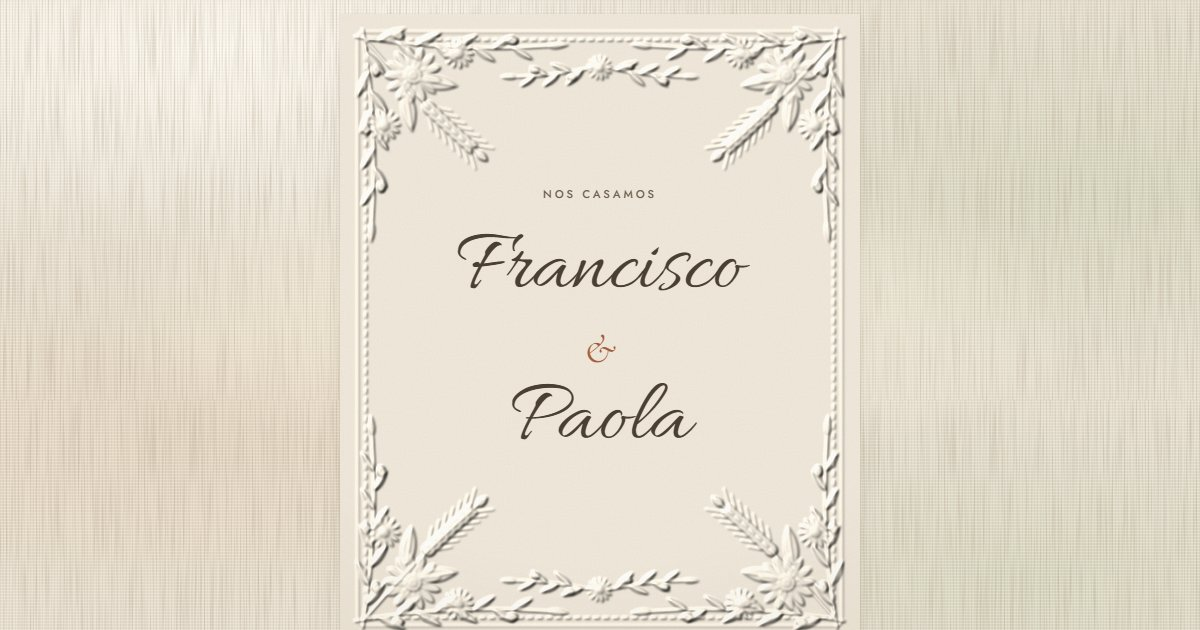
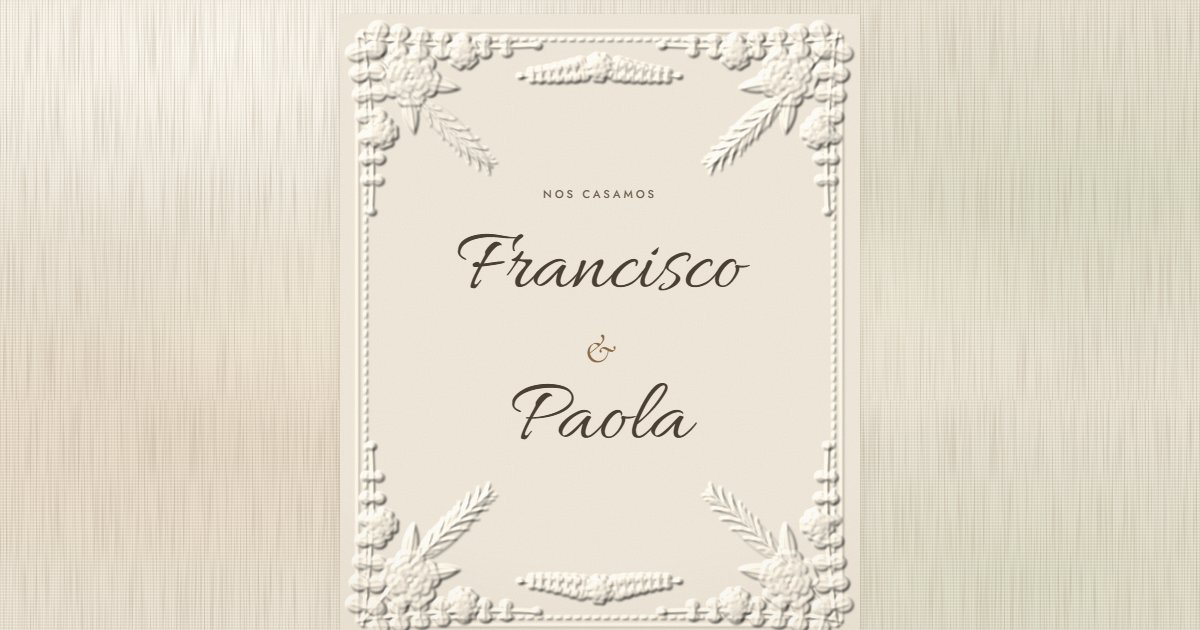
Fondos con fotos libres de Unsplash (faroles, ceremonia, pampas, velas); rosas, eucalipto y pampas en relieve; lacre madera

Changed region(s): [[0.2775, 0.6635, 0.7092, 1.0], [0.2775, 0.0302, 0.7092, 0.3619]]

diff --git a/index.html b/index.html
@@ -31,7 +31,7 @@
   --linen: #E8E0D1;
   --ink: #4A3F33;
   --ink-soft: #6E6253;
-  --accent: #A35F3C;
+  --accent: #8B6A45;
   --sage: #8A9A6E;
   --sage-deep: #66734D;
   --line: rgba(74, 63, 51, .2);
@@ -359,6 +359,26 @@ html.intro-on .hero-in > * { opacity: 0; }
 .proto a { color: var(--ink); text-underline-offset: 3px; white-space: nowrap; }
 
 .linen-panel .panel-in { padding: 46px 22px; }
+
+/* secciones con foto de fondo (fotos libres de Unsplash, licencia Unsplash):
+   faroles = photo-1660243353143-f77ba06d4913 · ceremonia = photo-1770757588246-f1988bdd9b49
+   pampas = photo-1780337092896-87be336f877d · velas = photo-1613068431228-8cb6a1e92573 */
+.photo { background-color: var(--linen); background-size: cover; background-position: center; }
+.photo::before { content: ""; position: absolute; inset: 0; z-index: 0; pointer-events: none; }
+.photo-light::before { background: linear-gradient(180deg, rgba(240, 233, 220, .7), rgba(240, 233, 220, .84)); }
+.photo-dark { color: var(--on-olive); }
+.photo-dark::before { background: linear-gradient(180deg, rgba(36, 31, 22, .38), rgba(36, 31, 22, .62)); }
+.photo .panel-in { padding: 64px 22px; }
+.photo-dark .panel-in { text-shadow: 0 1px 10px rgba(20, 16, 10, .45); }
+.photo-dark .label { color: #E9E1D0; }
+.photo-dark .h2, .photo-dark .venue-name { color: #FBF7EE; }
+.photo-dark .venue-addr { color: #E9E1D0; }
+.photo-dark .venue .time { color: #EBD7B4; }
+.photo-dark .btn { border-color: rgba(251, 247, 238, .85); background: rgba(251, 247, 238, .1); color: #FBF7EE; text-shadow: none; }
+.photo-dark .btn:hover { background: #FBF7EE; color: var(--ink); }
+.bg-faroles { background-image: url("img/fondo-faroles.jpg"); }
+.bg-ceremonia { background-image: url("img/fondo-ceremonia.jpg"); background-position: 50% 60%; }
+.bg-pampas { background-image: url("img/fondo-pampas.jpg"); }
 .card .panel-in { padding: 78px 34px 80px; }
 
 /* cuenta regresiva y foto */
@@ -428,7 +448,7 @@ html.intro-on .hero-in > * { opacity: 0; }
 .btn-row .btn { flex: 1 1 120px; max-width: 200px; }
 
 /* lugar */
-.venues-in { padding: 128px 40px 80px; gap: 12px; }
+.photo .venues-in { min-height: 560px; justify-content: center; padding: 96px 32px; gap: 12px; }
 .venue { display: flex; flex-direction: column; align-items: center; gap: 6px; width: 100%; }
 .venue .time { font-family: var(--font-label); font-size: .8rem; letter-spacing: .22em; color: var(--accent); font-variant-numeric: lining-nums; }
 .venue-name { font-size: 1.6rem; line-height: 1.2; }
@@ -460,7 +480,14 @@ html.intro-on .hero-in > * { opacity: 0; }
 .gifts-in { padding: 104px 40px 100px; }
 
 /* confirmación (verde oliva) */
-.olive { background-color: var(--olive); color: var(--on-olive); box-shadow: 0 16px 34px -22px rgba(30, 36, 20, .6); }
+.olive {
+  background-color: var(--olive);
+  background-image: linear-gradient(180deg, rgba(78, 90, 59, .9), rgba(78, 90, 59, .94)), url("img/fondo-velas.jpg");
+  background-size: cover;
+  background-position: center;
+  color: var(--on-olive);
+  box-shadow: 0 16px 34px -22px rgba(30, 36, 20, .6);
+}
 .olive::after { content: ""; position: absolute; inset: 0; z-index: 1; pointer-events: none; background-image: var(--weave), var(--grain); opacity: .5; mix-blend-mode: soft-light; }
 .olive .label { color: var(--on-olive-soft); }
 .olive .h2 { color: var(--on-olive); }
@@ -608,7 +635,7 @@ html.js .reveal.in { opacity: 1; transform: none; }
     </filter>
     <filter id="fx-seal" color-interpolation-filters="sRGB" x="-5%" y="-5%" width="110%" height="110%">
       <feGaussianBlur in="SourceAlpha" stdDeviation="1.3" result="h"/>
-      <feDiffuseLighting in="h" data-ss="3" surfaceScale="3" diffuseConstant="1.27" lighting-color="#9A4E33" result="d"><feDistantLight azimuth="225" elevation="52"/></feDiffuseLighting>
+      <feDiffuseLighting in="h" data-ss="3" surfaceScale="3" diffuseConstant="1.27" lighting-color="#93673E" result="d"><feDistantLight azimuth="225" elevation="52"/></feDiffuseLighting>
       <feSpecularLighting in="h" data-ss="3" surfaceScale="3" specularConstant=".38" specularExponent="26" lighting-color="#FFF4E6" result="s"><feDistantLight azimuth="225" elevation="52"/></feSpecularLighting>
       <feComposite in="d" in2="s" operator="arithmetic" k1="0" k2="1" k3="1" k4="0" result="ds"/>
       <feComponentTransfer in="SourceAlpha" result="m"><feFuncA type="linear" slope="40" intercept="0"/></feComponentTransfer>
@@ -662,9 +689,9 @@ html.js .reveal.in { opacity: 1; transform: none; }
         <svg class="bow" viewBox="0 0 300 230" focusable="false">
           <g class="sprig">
             <path fill="none" stroke="#7C8A63" stroke-width="1.5" stroke-linecap="round" d="M150,92 C146,70 140,50 134,26 M152,92 C156,70 162,50 168,28 M151,92 C151,70 151,52 151,34"/>
-            <path fill="none" stroke="#9A8CBB" stroke-width="5" stroke-linecap="round" stroke-dasharray="3 1.8" d="M138,46 C136,38 135,32 133,22"/>
-            <path fill="none" stroke="#8B7CAE" stroke-width="5" stroke-linecap="round" stroke-dasharray="3 1.8" d="M164,48 C166,40 167,34 169,24"/>
-            <path fill="none" stroke="#A497C4" stroke-width="5" stroke-linecap="round" stroke-dasharray="3 1.8" d="M151,52 C151,44 151,38 151,30"/>
+            <path fill="none" stroke="#D9C8A6" stroke-width="9" stroke-linecap="round" stroke-dasharray="1.4 1.1" d="M139,52 C137,40 135,30 132,16"/>
+            <path fill="none" stroke="#CDB892" stroke-width="9" stroke-linecap="round" stroke-dasharray="1.4 1.1" d="M163,54 C165,42 167,32 170,18"/>
+            <path fill="none" stroke="#E6DABF" stroke-width="8" stroke-linecap="round" stroke-dasharray="1.4 1.1" d="M151,58 C151,46 151,36 151,24"/>
             <path fill="#8A9A6E" d="M150,90 C138,74 120,64 102,62 C114,74 132,84 150,90 Z"/>
             <path fill="#A3AE88" d="M150,90 C164,72 182,62 200,60 C188,74 168,84 150,90 Z"/>
             <path fill="#98A57E" d="M150,93 C130,90 112,96 96,108 C114,106 132,100 150,93 Z"/>
@@ -687,7 +714,7 @@ html.js .reveal.in { opacity: 1; transform: none; }
 
     <p class="proto"><span class="proto-tag">Vista previa</span> La fecha está por confirmar. Hora, teléfono y link de la lista de novios son de ejemplo. <a href="#familia-perez" id="proto-link">Ver como “Familia Pérez”</a></p>
 
-    <section class="panel linen-panel" aria-label="Cuenta regresiva">
+    <section class="panel photo photo-light bg-faroles" aria-label="Cuenta regresiva">
       <div class="panel-in reveal">
         <div class="oval" id="oval">
           <div class="oval-in" id="oval-in">
@@ -713,7 +740,7 @@ html.js .reveal.in { opacity: 1; transform: none; }
       </div>
     </section>
 
-    <section class="panel paper" data-relief="lugares" aria-labelledby="h-lugar">
+    <section class="panel photo photo-dark bg-ceremonia" aria-labelledby="h-lugar">
       <div class="panel-in venues-in reveal">
         <article class="venue">
           <p class="label">Ceremonia y celebración</p>
@@ -743,7 +770,7 @@ html.js .reveal.in { opacity: 1; transform: none; }
       </div>
     </section>
 
-    <section class="panel linen-panel" aria-labelledby="h-vestimenta">
+    <section class="panel photo photo-light bg-pampas" aria-labelledby="h-vestimenta">
       <div class="panel-in reveal">
         <p class="label">Código de vestimenta</p>
         <h2 class="h2" id="h-vestimenta">Formal relajado</h2>
@@ -880,6 +907,12 @@ html.js .reveal.in { opacity: 1; transform: none; }
     const defs = [];
     return {
       defs,
+      grad(cx, cy, r, stops) {
+        const id = prefix + 'g' + (++gid);
+        defs.push(`<radialGradient id="${id}" gradientUnits="userSpaceOnUse" cx="${f(cx)}" cy="${f(cy)}" r="${f(r)}">` +
+          stops.map(([o, a]) => `<stop offset="${o.toFixed(3)}" stop-color="#fff" stop-opacity="${a.toFixed(2)}"/>`).join('') + '</radialGradient>');
+        return id;
+      },
       clip(d) {
         const id = prefix + 'c' + (++gid);
         defs.push(`<clipPath id="${id}"><path d="${d}"/></clipPath>`);
@@ -921,16 +954,53 @@ html.js .reveal.in { opacity: 1; transform: none; }
     const c = Math.cos(ang), s = Math.sin(ang);
     return quad([x, y], [x + len * .5 * c - len * bend * s, y + len * .5 * s + len * bend * c], [x + len * c, y + len * s]);
   }
-  // Margarita: pétalos delgados alrededor de un centro abombado
-  function daisy(cx, cy, r, rot = 0, n = 13) {
+  // Rosa blanca: capas de pétalos que suben hacia el centro
+  function petal(cx, cy, r0, r1, a, hw, g) {
+    const p = (r, da) => pt(...pol(cx, cy, r, a + da));
+    const rm = r0 + (r1 - r0) * .55;
+    return `<path fill="url(#${g})" d="M${p(r0, -hw * .5)}C${p(rm, -hw * 1.08)} ${p(r1 * .98, -hw * .8)} ${p(r1, -hw * .36)}Q${p(r1 * .92, 0)} ${p(r1, hw * .36)}C${p(r1 * .98, hw * .8)} ${p(rm, hw * 1.08)} ${p(r0, hw * .5)}Z"/>`;
+  }
+  function rose(k, cx, cy, r, rot = 0) {
+    const layers = [
+      [5, .22, 1, .8, .2, .58, 0],
+      [5, .17, .75, .76, .3, .7, .63],
+      [4, .11, .52, .92, .42, .82, .2],
+      [3, .05, .31, 1.08, .56, .92, 1.15]
+    ];
     let s = '';
-    for (let i = 0; i < n; i++) {
-      const a = rot + i * 2 * Math.PI / n, c = Math.cos(a), sn = Math.sin(a);
-      const T = (u, v) => pt(cx + u * c - v * sn, cy + u * sn + v * c);
-      const w1 = r * .17, w0 = r * .06;
-      s += `<path fill-opacity="${i % 2 ? .46 : .54}" d="M${T(r * .2, -w0)}C${T(r * .5, -w1)} ${T(r * .9, -w1 * .95)} ${T(r, 0)}C${T(r * .9, w1 * .95)} ${T(r * .5, w1)} ${T(r * .2, w0)}Z"/>`;
+    for (const [n, a0r, a1r, hw, op0, op1, off] of layers) {
+      const g = k.grad(cx, cy, r * a1r, [[a0r / a1r, op0], [.72, (op0 + op1) / 2 + .06], [1, op1]]);
+      for (let i = 0; i < n; i++) s += petal(cx, cy, r * a0r, r * a1r, rot + off + i * 2 * Math.PI / n, hw, g);
     }
-    return s + `<circle cx="${f(cx)}" cy="${f(cy)}" r="${f(r * .3)}" fill-opacity=".72"/><circle cx="${f(cx)}" cy="${f(cy)}" r="${f(r * .17)}" fill-opacity=".92"/>`;
+    return s + `<circle cx="${f(cx)}" cy="${f(cy)}" r="${f(r * .085)}" fill-opacity=".95"/>`;
+  }
+  // Eucalipto: pares de hojas redondas que se achican hacia la punta
+  function eucalyptus(x, y, len, ang, s = 1, bend = .05) {
+    const C = curve(x, y, len, ang, bend);
+    let o = stem(C.d, .55, 1.5 * s);
+    for (let i = 0; i < 7; i++) {
+      const t = .1 + i * .12, [px, py] = C.P(t), a = C.A(t), r = (8.5 - 4.5 * t) * s;
+      for (const side of [-1, 1]) {
+        const nx = -Math.sin(a) * side, ny = Math.cos(a) * side;
+        const ex = px + nx * r * .95 + Math.cos(a) * r * .25, ey = py + ny * r * .95 + Math.sin(a) * r * .25;
+        o += `<ellipse cx="${f(ex)}" cy="${f(ey)}" rx="${f(r)}" ry="${f(r * .86)}" fill-opacity="${(i + side) % 2 ? .44 : .52}"/>`;
+        o += `<path class="v" stroke-width=".9" stroke-opacity=".7" d="M${pt(px, py)}L${pt(ex + nx * r * .5, ey + ny * r * .5)}"/>`;
+      }
+    }
+    const [tx, ty] = C.P(1);
+    return o + `<ellipse cx="${f(tx)}" cy="${f(ty)}" rx="${f(3.6 * s)}" ry="${f(3 * s)}" fill-opacity=".5"/>`;
+  }
+  // Pampa: tallo con una pluma de fibras finas
+  function pampas(x, y, len, ang, s = 1) {
+    const C = curve(x, y, len, ang, .05);
+    const [bx, by] = C.P(.4);
+    let o = stem(C.d, .5, 1.3 * s) + leaf(bx, by, len * .6, C.A(.7), .16, .26, false);
+    for (let i = 0; i < 28; i++) {
+      const t = .42 + i * .02, [px, py] = C.P(t), a = C.A(t), side = i % 2 ? 1 : -1;
+      const fl = (8 + 11 * Math.sin(Math.PI * (t - .4) / .6)) * s, fa = a + side * (.5 + .15 * Math.sin(i * 1.7));
+      o += `<path class="v" stroke-width=".9" stroke-opacity=".62" d="M${pt(px, py)}q${f(Math.cos(fa) * fl * .5 + Math.cos(a) * 2)},${f(Math.sin(fa) * fl * .5 + Math.sin(a) * 2)} ${f(Math.cos(fa) * fl)},${f(Math.sin(fa) * fl)}"/>`;
+    }
+    return o;
   }
   // Rama de olivo con hojas angostas y aceitunas
   function olive(x, y, len, ang, n = 7, s = 1, bend = .06, fruit = true) {
@@ -947,52 +1017,37 @@ html.js .reveal.in { opacity: 1; transform: none; }
     const [ex, ey] = C.P(1);
     return o + leaf(ex, ey, 18 * s, C.A(1), .2, .5, false) + fr;
   }
-  // Espiga de trigo
-  function wheat(x, y, len, ang, s = 1) {
-    const C = curve(x, y, len, ang, .04);
-    let o = stem(C.d, .55, 1.4 * s);
-    for (let i = 0; i < 7; i++) {
-      const t = .55 + i * .06, [px, py] = C.P(t), a = C.A(t);
-      for (const side of [-1, 1]) {
-        const la = a + side * .42, tx = px + Math.cos(la) * 11 * s, ty = py + Math.sin(la) * 11 * s, aw = la + side * .16;
-        o += leaf(px, py, 11 * s, la, .42, .62, false);
-        o += `<path class="v" stroke-width=".8" stroke-opacity=".55" d="M${pt(tx, ty)}L${pt(tx + Math.cos(aw) * 13 * s, ty + Math.sin(aw) * 13 * s)}"/>`;
-      }
-    }
-    const [ex, ey] = C.P(1);
-    return o + leaf(ex, ey, 12 * s, C.A(1), .4, .62, false);
-  }
   // Ramos (coordenadas locales: la esquina está en 0,0)
-  function cornerR() {
-    let o = olive(8, 14, 160, .05, 8) + olive(14, 8, 160, 1.52, 8, 1, -.06) + wheat(16, 16, 132, .79);
-    o += leaf(60, 50, 34, .15, .26, .46) + leaf(50, 60, 34, 1.42, .26, .46);
-    return o + daisy(56, 46, 24, .2) + daisy(32, 88, 14, .9) + daisy(94, 28, 13, .5);
+  function cornerR(k) {
+    let o = eucalyptus(10, 14, 150, .05) + eucalyptus(14, 10, 150, 1.52, 1, -.05) + pampas(16, 16, 150, .79);
+    o += leaf(62, 52, 34, .15, .26, .46) + leaf(52, 62, 34, 1.42, .26, .46);
+    return o + rose(k, 54, 48, 25, .3) + rose(k, 30, 94, 14, 1.2) + rose(k, 98, 28, 14, 2.1);
   }
-  const sprigR = () => olive(6, 12, 80, .14, 5, .8) + olive(12, 6, 80, 1.43, 5, .8, -.06) + daisy(26, 24, 12, .3);
+  const sprigR = k => eucalyptus(6, 12, 80, .14, .8) + eucalyptus(12, 6, 80, 1.43, .8, -.05) + rose(k, 26, 24, 14, .4);
   const corners = (W, H, m, sc, fn) => [[m, m, 1, 1], [W - m, m, -1, 1], [m, H - m, 1, -1], [W - m, H - m, -1, -1]]
     .map(([x, y, sx, sy]) => `<g transform="translate(${f(x)},${f(y)}) scale(${(sx * sc).toFixed(3)},${(sy * sc).toFixed(3)})">${fn()}</g>`).join('');
-  function sprayR(x, y, s = 1, flip = 1) {
-    return olive(x - 7 * s, y, 66 * s, Math.PI - .12 * flip, 5, .8 * s, -.05 * flip) +
-      olive(x + 7 * s, y, 66 * s, .12 * flip, 5, .8 * s, .05 * flip) + daisy(x, y, 11 * s, .4);
+  function sprayR(k, x, y, s = 1, flip = 1) {
+    return eucalyptus(x - 8 * s, y, 62 * s, Math.PI - .12 * flip, .75 * s, -.05 * flip) +
+      eucalyptus(x + 8 * s, y, 62 * s, .12 * flip, .75 * s, .05 * flip) + rose(k, x, y, 13 * s, .4);
   }
-  function vineR(x, y0, y1) {
+  function vineR(k, x, y0, y1) {
     const len = y1 - y0, n = Math.max(4, Math.round(len / 26));
     let o = stem(`M${pt(x, y0)}C${pt(x + 7, y0 + len * .33)} ${pt(x - 7, y0 + len * .66)} ${pt(x, y1)}`, .5, 1.5), fl = '';
     for (let i = 0; i <= n; i++) {
       const t = i / n, y = y0 + len * t, xx = x + 5.2 * Math.sin(t * Math.PI * 2);
       o += leaf(xx, y, 22, -Math.PI / 2 + (i % 2 ? 1 : -1) * .7, .2, .48);
-      if (i % 5 === 2) fl += daisy(xx, y, 7.5, i);
+      if (i % 5 === 2) fl += rose(k, xx, y, 8.5, i);
     }
     return o + fl;
   }
-  function garland(W, y0, sag) {
+  function garland(k, W, y0, sag) {
     const Q = quad([-10, y0], [W / 2, y0 + 2 * sag], [W + 10, y0]);
     let o = stem(Q.d, .55, 1.8), fl = '';
     const n = Math.round(W / 11);
     for (let i = 0; i <= n; i++) {
       const t = i / n, [px, py] = Q.P(t), a = Q.A(t);
       o += leaf(px, py, 22, a + (i % 2 ? .7 : -.7), .2, i % 2 ? .46 : .52);
-      if (i % 6 === 3) fl += daisy(px, py + 3, 9, i);
+      if (i % 6 === 3) fl += rose(k, px, py + 3, 10, i);
     }
     return o + fl;
   }
@@ -1048,39 +1103,32 @@ html.js .reveal.in { opacity: 1; transform: none; }
   const BUILD = {
     hero(W, H) {
       const k = kit('h'), sc = clamp(W / 360, .8, 1.2);
-      const o = base(W, H) + frames(W, H, 18) + corners(W, H, 6, sc, cornerR) +
-        sprayR(W / 2, 54, sc * .95, 1) + sprayR(W / 2, H - 54, sc * .95, -1);
-      return wrap(k, o, 'fx-paper');
-    },
-    lugares(W, H) {
-      const k = kit('l'), cx = W / 2;
-      let o = base(W, H) + frames(W, H, 16);
-      o += line(circ(cx - 11, 70, 18), 3.4, .85) + line(circ(cx + 11, 70, 18), 3.4, .85);
-      o += laurel(cx, 70, 36, -1) + laurel(cx, 70, 36, 1);
-      o += corners(W, H, 26, .85, sprigR);
+      const o = base(W, H) + frames(W, H, 18) + corners(W, H, 6, sc, () => cornerR(k)) +
+        sprayR(k, W / 2, 54, sc * .95, 1) + sprayR(k, W / 2, H - 54, sc * .95, -1);
       return wrap(k, o, 'fx-paper');
     },
     programa(W, H) {
       const k = kit('c');
-      const o = base(W, H) + garland(W, 4, 30) + vineR(26, 96, H - 60) + vineR(W - 26, 96, H - 60) + sprayR(W / 2, H - 42, .9, -1);
+      const o = base(W, H) + garland(k, W, 4, 30) + vineR(k, 26, 96, H - 60) + vineR(k, W - 26, 96, H - 60) + sprayR(k, W / 2, H - 42, .9, -1);
       return wrap(k, o, 'fx-paper');
     },
     ticket(W, H) {
       const k = kit('t'), cx = W / 2;
       let o = base(W, H) + frames(W, H, 10);
-      o += stamp(cx - 58, 74, 62, 76, -7, daisy(0, -6, 14) + txt(0, 25, '2027', 10));
+      o += stamp(cx - 58, 74, 62, 76, -7, rose(k, 0, -6, 15, .4) + txt(0, 25, '2027', 10));
       o += stamp(cx + 10, 66, 56, 68, 6, line(circ(-6, -6, 10), 2.6, .85) + line(circ(6, -6, 10), 2.6, .85) + txt(0, 22, 'F&amp;P', 10));
       o += postmark(k, cx + 64, 104, 27);
       return wrap(k, o, 'fx-paper');
     },
     regalos(W, H) {
       const k = kit('r'), sc = clamp(W / 440, .7, 1.05);
-      const o = base(W, H) + frames(W, H, 18) + corners(W, H, 8, sc * .95, sprigR) + sprayR(W / 2, 56, sc * .9, 1);
+      const o = base(W, H) + frames(W, H, 18) + corners(W, H, 8, sc * .95, () => sprigR(k)) + sprayR(k, W / 2, 56, sc * .9, 1);
       return wrap(k, o, 'fx-paper');
     },
     rsvp(W, H) {
       const k = kit('v');
-      const o = base(W, H) + lace(W, 0, 1) + lace(W, H, -1) + line(rrect(W, H, 14, 6), 1.2, .45);
+      // Sin rectángulo de base: así el fondo de foto se ve entre el encaje y el marco
+      const o = lace(W, 0, 1) + lace(W, H, -1) + line(rrect(W, H, 14, 6), 1.2, .45);
       return wrap(k, o, 'fx-olive');
     },
     envFront(W, H) {
@@ -1092,7 +1140,7 @@ html.js .reveal.in { opacity: 1; transform: none; }
       let o = `<path d="${dL}" fill-opacity=".14"/><path d="${dR}" fill-opacity=".14"/>` + line(rrect(W, H, 11, 6), 1.4, .45);
       o += `<path d="${dB}" fill-opacity=".27"/><g clip-path="url(#${cB})">`;
       o += line(`M${pt(18, H + 2)}L${pt(cx, cy + 20)}L${pt(W - 18, H + 2)}`, 1.8, .7, STITCH);
-      o += line(rrect(W, H, 11, 6), 1.4, .45) + sprayR(cx, H - 48, sc * 1.3, -1) + '</g>';
+      o += line(rrect(W, H, 11, 6), 1.4, .45) + sprayR(k, cx, H - 48, sc * 1.3, -1) + '</g>';
       return wrap(k, o, 'fx-env');
     },
     envFlap(W, Hf) {
@@ -1102,8 +1150,8 @@ html.js .reveal.in { opacity: 1; transform: none; }
       let o = `<path d="${d}" fill-opacity=".3"/><g clip-path="url(#${c})">`;
       o += line(`M11,11L${f(W - 11)},11`, 1.4, .45);
       o += line(`M${pt(22, -2)}L${pt(cx, ty - 24)}L${pt(W - 22, -2)}`, 1.8, .7, STITCH);
-      o += `<g transform="translate(6,6) scale(${sc.toFixed(3)})">${cornerR()}</g><g transform="translate(${W - 6},6) scale(${(-sc).toFixed(3)},${sc.toFixed(3)})">${cornerR()}</g>`;
-      o += sprayR(cx, ty - 112, sc * 1.1, 1) + '</g>';
+      o += `<g transform="translate(6,6) scale(${sc.toFixed(3)})">${cornerR(k)}</g><g transform="translate(${W - 6},6) scale(${(-sc).toFixed(3)},${sc.toFixed(3)})">${cornerR(k)}</g>`;
+      o += sprayR(k, cx, ty - 112, sc * 1.1, 1) + '</g>';
       return wrap(k, o, 'fx-env');
     }
   };
@@ -1179,7 +1227,7 @@ html.js .reveal.in { opacity: 1; transform: none; }
       const a = i * 2 * Math.PI / 5 - Math.PI / 2;
       o += `<circle cx="${f(x + Math.cos(a) * r)}" cy="${f(y + Math.sin(a) * r)}" r="${f(r * .75)}" fill="#FBF7EE"/>`;
     }
-    return o + `<circle cx="${f(x)}" cy="${f(y)}" r="${f(r * .55)}" fill="#C99A45"/>`;
+    return o + `<circle cx="${f(x)}" cy="${f(y)}" r="${f(r * .55)}" fill="#C2A574"/>`;
   };
   function wreathOval(w, h) {
     const cx = w / 2, cy = h / 2, rx = w / 2 - 16, ry = h / 2 - 16, S = 900, pts = [];
@@ -1197,7 +1245,7 @@ html.js .reveal.in { opacity: 1; transform: none; }
       const [[x, y], , a] = pts[j];
       const tan = Math.atan2(ry * Math.cos(a), -rx * Math.sin(a));
       leaves += leafC(x, y, 17 + (i % 3) * 2.5, tan + (i % 2 ? .62 : -.62), .32, GREENS[i % 4]);
-      if (i % 11 === 5) extras += `<circle cx="${f(x)}" cy="${f(y)}" r="3" fill="#B4673F"/><circle cx="${f(x - 1)}" cy="${f(y - 1)}" r=".9" fill="#F3D6C2"/>`;
+      if (i % 11 === 5) extras += `<circle cx="${f(x)}" cy="${f(y)}" r="3" fill="#D3BE98"/><circle cx="${f(x - 1)}" cy="${f(y - 1)}" r=".9" fill="#F6EEDC"/>`;
       if (i % 11 === 0) extras += blossom(x, y, 2.6);
     }
     return `<svg class="wreath" viewBox="0 0 ${w} ${h}" aria-hidden="true" focusable="false">${leaves}${extras}</svg>`;
